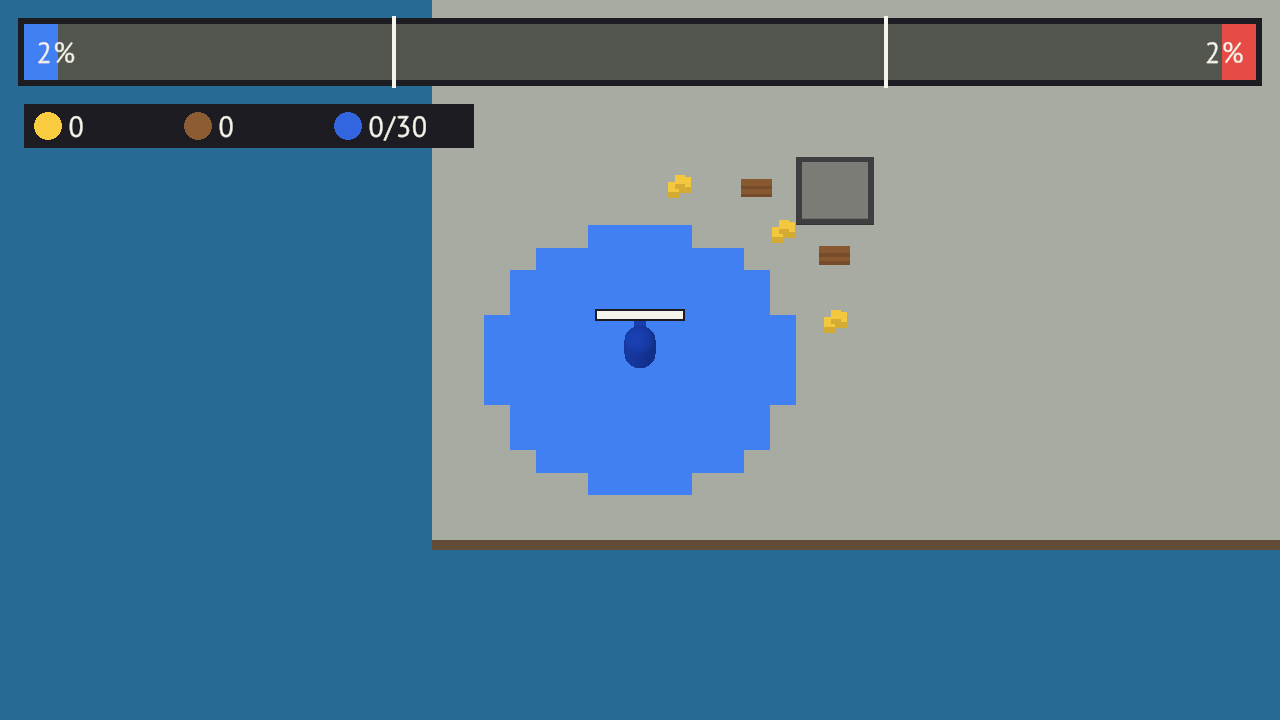
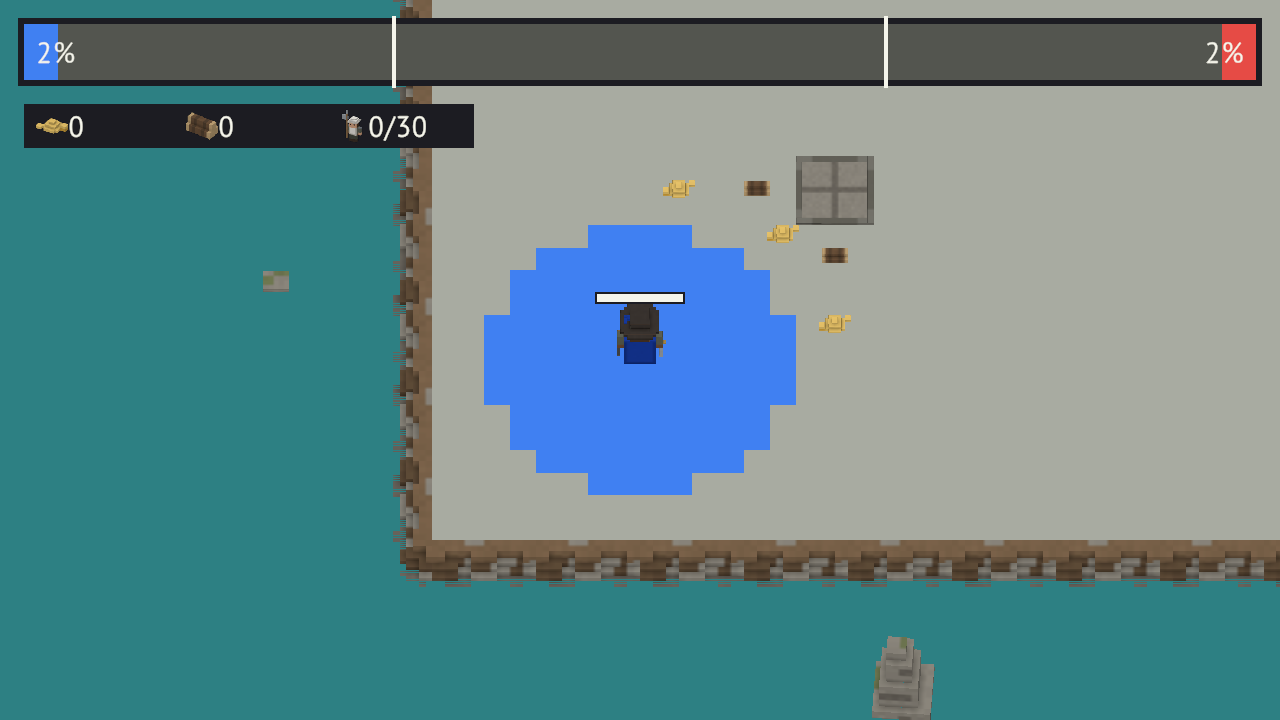
Record art requests and model checks

diff --git a/Docs/ART_REQUESTS.md b/Docs/ART_REQUESTS.md
@@ -1,0 +1,71 @@
+# Запросы к агенту-художнику
+
+Каждый запрос и его результат записываются здесь: что просили, что получили, куда положили, чем проверили. Правила —
+скилл `art-requests`. Художник — сессия «3D Artist», генератор `D:\Repositories\voxel-forge`, профиль игры у него —
+`docs/games/borderbite.md`; файлы выгружает в `export/borderbite/`, в `Assets` их кладёт агент игры ((BBAT) Unity Developer).
+
+## Общие условия (для всех запросов)
+
+- Единица размера: клетка 0,5 м; 8 вокселей на метр для мира и построек, 16 — для людей, мелких предметов и места под
+  постройку. «Вперёд» = +Z; начало координат — центр низа (берег — середина верхней кромки у карты).
+- Зарезервированные цвета (в корпусах не использовать): все чистые насыщенные — цвета сторон (сейчас синий и красный);
+  светлый тёплый серый — нейтральная земля. Их ставит игра на части `paint` (белые; цвет стороны умножается на текстуру).
+- Стиль: воксельная лоуполи, мультяшно, сочно, без крови; позднее средневековье с ранним огнестрелом; карта — остров.
+- Бюджет: клетка 24 треугольника, боец ≤ 300, герой ≤ 600, казарма ≤ 800, декор ≤ 500; вес — начальная загрузка Playables
+  < 15 МиБ.
+- Подключение: `.glb` импортирует glTFast; `Tools/Setup/Build Models` (`Core.EditorTools.ModelLibrary`) собирает из
+  каждой модели префаб `Assets/Prefabs/World/<id>.prefab` с материалами шейдера `Borderbite/World/Flat Lit` (свет зашит в
+  шейдер: в игре нет источников света). Сами `.glb` и `.png` не правятся: правки — новым запросом художнику.
+
+## Статусы
+
+| № | Что | Статус | Коммит генератора |
+| --- | --- | --- | --- |
+| 1 | Пробный набор окружения: клетка, берег, угол берега, три камня | подключён | 8c9ce99 (экспорт на диске — f71ce81) |
+| 2 | Слой 2: герой, боец, казарма, место под постройку, золото, дерево, значки HUD | подключён | dba31eb (экспорт на диске — f71ce81) |
+
+## 1. Пробный набор окружения — заказ (BBAT) Game Designer, 2026-11-03
+
+Задача: ТЗ этапа 1, 2.1 и 6 (карта-остров, вода до горизонта). Было в игре: плоская карта на кубе-острове, вода плоскостью.
+
+| Объект | Для чего | Размер | Части |
+| --- | --- | --- | --- |
+| `ground_cell` | клетка поверхности | 0,5 × 0,25 × 0,5 м | `body` — земля, `paint` — верхний слой, цвет стороны |
+| `shore_straight` | берег вдоль края карты | 2 × 1,25 × 1,25 м, от верха клеток до 0,75 м под водой | — |
+| `shore_corner` | угол берега | 1,25 × 1,25 × 1,25 м | — |
+| `rock_small`, `rock_large`, `rock_tall` | камни в воде | до 0,75 м над низом | — |
+
+**Результат (2026-11-04, экспорт f71ce81):** 24, 238, 236, 48, 80, 70 треугольников; текстуры с точечной выборкой.
+Куда положили: `Assets/Models/World/`. Подключение: берег и камни ставит `MapView.BuildShore` (по 2 м вдоль каждого края,
+углы, десять камней в воде низом на 0,5 м под ней), шаблоны — в `BattleWorld`.
+Отличия от заказа: `ground_cell` в игре не ставится по клетке — у модели однотонный верх без кромки, поэтому поверхность —
+один меш с текстурой «тексель на клетку» (та же картинка, 2 треугольника вместо ~98 тысяч); модель лежит в проекте как образец.
+После импорта glTFast угол берега закрывает −x, +z от своего начала (ось x отражается) — повороты углов подобраны под это.
+Вода — бирюзовая `#2F8487` на 0,5 м ниже верха клеток, как предложено в профиле: синюю воду легко спутать с синим игроком.
+Проверено: `Docs/Verification/stage-1/art_overview_1920x1080.png`, `art_start_1920x1080.png`, `web_playables_*.png`.
+Попыток: 1.
+
+## 2. Слой 2: юниты, постройки, ресурсы — заказ (BBAT) Game Designer, 2026-11-03
+
+Задача: ТЗ этапа 1, слой 2 (3.1–3.5) и 6. Было в игре: капсулы и кубы цвета стороны.
+
+| Объект | Для чего | Размер | Части и маркеры |
+| --- | --- | --- | --- |
+| `hero` | герой игрока | 0,75 × 1,9 м | `body`, `paint` (плащ, оплечье, перо), `leg_l`/`leg_r` (в бедре), `arm_l`/`arm_r` (в плече), `sword` под `arm_r`, `gun` под `arm_l`, маркер `muzzle` |
+| `soldier` | боец | 0,5 × 1,2 м | `body`, `paint` (шляпа, табард), ноги и руки как у героя, `weapon` (алебарда) под `arm_r` |
+| `barracks` | казарма | 2,25 × 2,5 × 2,25 м | `body`, `paint` (крыша, флаг), маркер `spawn` перед дверью (+Z) |
+| `build_spot` | место под постройку 3 × 3 клетки | 1,5 м, ниже 0,1 м | `body` — площадка, `paint` — контур |
+| `gold_pile`, `wood_bundle` | ресурсы | 0,63 и 0,5 м | — |
+| значки `gold`, `wood`, `army` | счётчики HUD | 64 × 64 | — |
+
+**Результат (2026-11-04, экспорт f71ce81):** 316, 180, 348, 44, 88, 24 треугольника — в бюджете. Имена частей и маркеров —
+как в заказе. Куда положили: `Assets/Models/Units/`, `Buildings/`, `Pickups/`; значки — `Assets/Sprites/UI/Icons/`.
+Подключение: шаблоны в `BattleWorld` (герой — в сцене, остальное копируют виды); `ViewMaterials.Tint` красит части
+`paint` — герой тёмно-синим героя, бойцы и казарма цветом бойцов стороны, контур места серым или светлым цветом стороны;
+`UnitPose` двигает части: ноги шагают на ходу, правая рука бьёт по событию удара, левая поднимает пищаль вперёд на 90° при
+выстреле, след выстрела выходит из `muzzle`. Казарма повёрнута дверью на юг, к камере и к месту появления бойцов.
+Отличия от заказа: маркер `spawn` пока не используется — бойцы появляются по правилу симуляции в 2 клетках к югу от центра
+казармы, у двери. Клип гибели `shatter` не заказывался: обломки рисует игра.
+Проверено: `Docs/Verification/stage-1/art_army_16m_*.png`, `art_army_12m_*.png` (армия из 30 против 10 красных, обзор 16 и
+12 м, вертикаль и альбом), сборка Playables 7,45 МиБ по сети.
+Попыток: 1.

diff --git a/Docs/UNITY_TOOLS.md b/Docs/UNITY_TOOLS.md
@@ -8,6 +8,7 @@
 | --- | --- |
 | Компиляция | `{"commands":[{"op":"refresh","compile":true}]}`, затем опрос `consoleCounts` до `isCompiling: false` |
 | Разрешить пакеты после правки `manifest.json` | `call` на `UnityEditor.PackageManager.Client, UnityEditor.CoreModule`, метод `Resolve` |
+| Модели художника | `call` на `Core.EditorTools.ModelLibrary, Assembly-CSharp-Editor`: `Build` (префабы из `.glb`, входит в `BuildEverything`), `Describe(id)` (узлы, позиции, размеры) |
 | Собрать всё с чистой копии | `call` на `Core.EditorTools.ProjectSetup, Assembly-CSharp-Editor`, метод `BuildEverything`; первый запуск импортирует TMP Essentials, запустить второй раз |
 | EditMode-тесты | `call` на `Core.EditorTools.AgentTestRunner, Assembly-CSharp-Editor`, метод `Run`, `args:[null]` → `EditorBridge/test_results.json` |
 | Скрипты под все площадки | `call` на `Core.EditorTools.PlatformBuild, Assembly-CSharp-Editor`, метод `CheckScripts` |
@@ -26,7 +27,8 @@
 - Операции `exists` в мосте нет (только `assert` с `kind:"exists"`); `find` не видит объекты в `DontDestroyOnLoad` — для них `eval` с `GameObject.Find`.
 - В Play Mode один пакет отвечает за 1–3,5 с: путь героя задавать `WalkTicks`/`WalkPath`, а короткие моменты (волна окружения) ловить `FreezeAfterCapture`, а не `sleep`.
 - `click`/`mouseDrag` моста идут в EventSystem мимо Input System: стик ими не проверить, только `InputScript`.
-- Встроенный меш `Capsule.fbx` — 2 × 4 × 2 единицы (а `Cube.fbx` — 1 × 1 × 1): масштаб капсулы делить пополам.
+- Встроенный меш `Capsule.fbx` — 2 × 4 × 2 единицы (а `Cube.fbx` — 1 × 1 × 1): масштаб капсулы делить пополам (заглушки без моделей).
+- glTFast отражает ось x модели: «левое» и «правое» у частей сохраняются, но угол берега после импорта закрывает −x, +z.
 - Без символа площадки сборка плеера не компилируется намеренно: собирать только через `Tools/Build`.
 
 ## Проверка сборки в браузере
